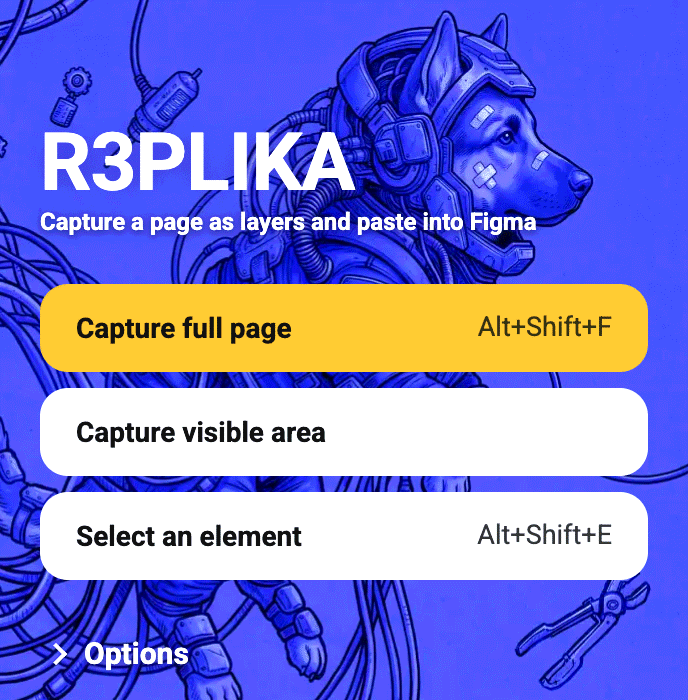
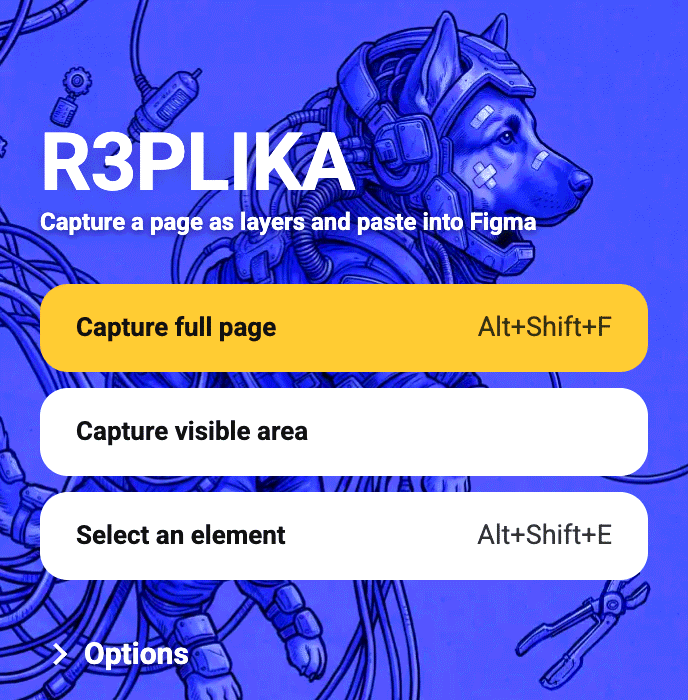
Popup button text to 13px; refresh screenshots

Changed region(s): [[0.0916, 0.6, 0.4884, 0.66], [0.1221, 0.45, 0.4273, 0.51], [0.0916, 0.75, 0.4578, 0.78]]

diff --git a/popup/popup.html b/popup/popup.html
@@ -32,7 +32,7 @@ h1{margin:0;font-weight:700;font-size:40px;line-height:1;letter-spacing:-.01em;c
 .tag{margin:2px 0 0;font-weight:700;font-size:12px;line-height:1.3;color:#fff;text-shadow:0 1px 3px rgba(26,30,130,.75),0 0 10px rgba(26,30,130,.5)}
 
 .actions{display:grid;gap:8px;margin-top:22px}
-.act{display:flex;align-items:center;justify-content:space-between;gap:10px;width:100%;height:44px;padding:0 18px;border:0;border-radius:14px;background:#fff;color:var(--ink);font:700 14px/1 "Roboto",system-ui,sans-serif;text-align:left;cursor:pointer;position:relative;overflow:hidden;transition:transform .18s var(--ease),box-shadow .18s,background .15s}
+.act{display:flex;align-items:center;justify-content:space-between;gap:10px;width:100%;height:44px;padding:0 18px;border:0;border-radius:14px;background:#fff;color:var(--ink);font:700 13px/1 "Roboto",system-ui,sans-serif;text-align:left;cursor:pointer;position:relative;overflow:hidden;transition:transform .18s var(--ease),box-shadow .18s,background .15s}
 .act::after{content:"";position:absolute;inset:0;background:linear-gradient(110deg,transparent 35%,rgba(255,255,255,.6) 50%,transparent 65%);transform:translateX(-120%);opacity:0;pointer-events:none}
 .act:hover::after{opacity:1;transform:translateX(120%);transition:transform calc(.6s*var(--s)) ease}
 .act:hover{transform:translateY(-1px);box-shadow:0 8px 18px rgba(18,22,110,.35)}
